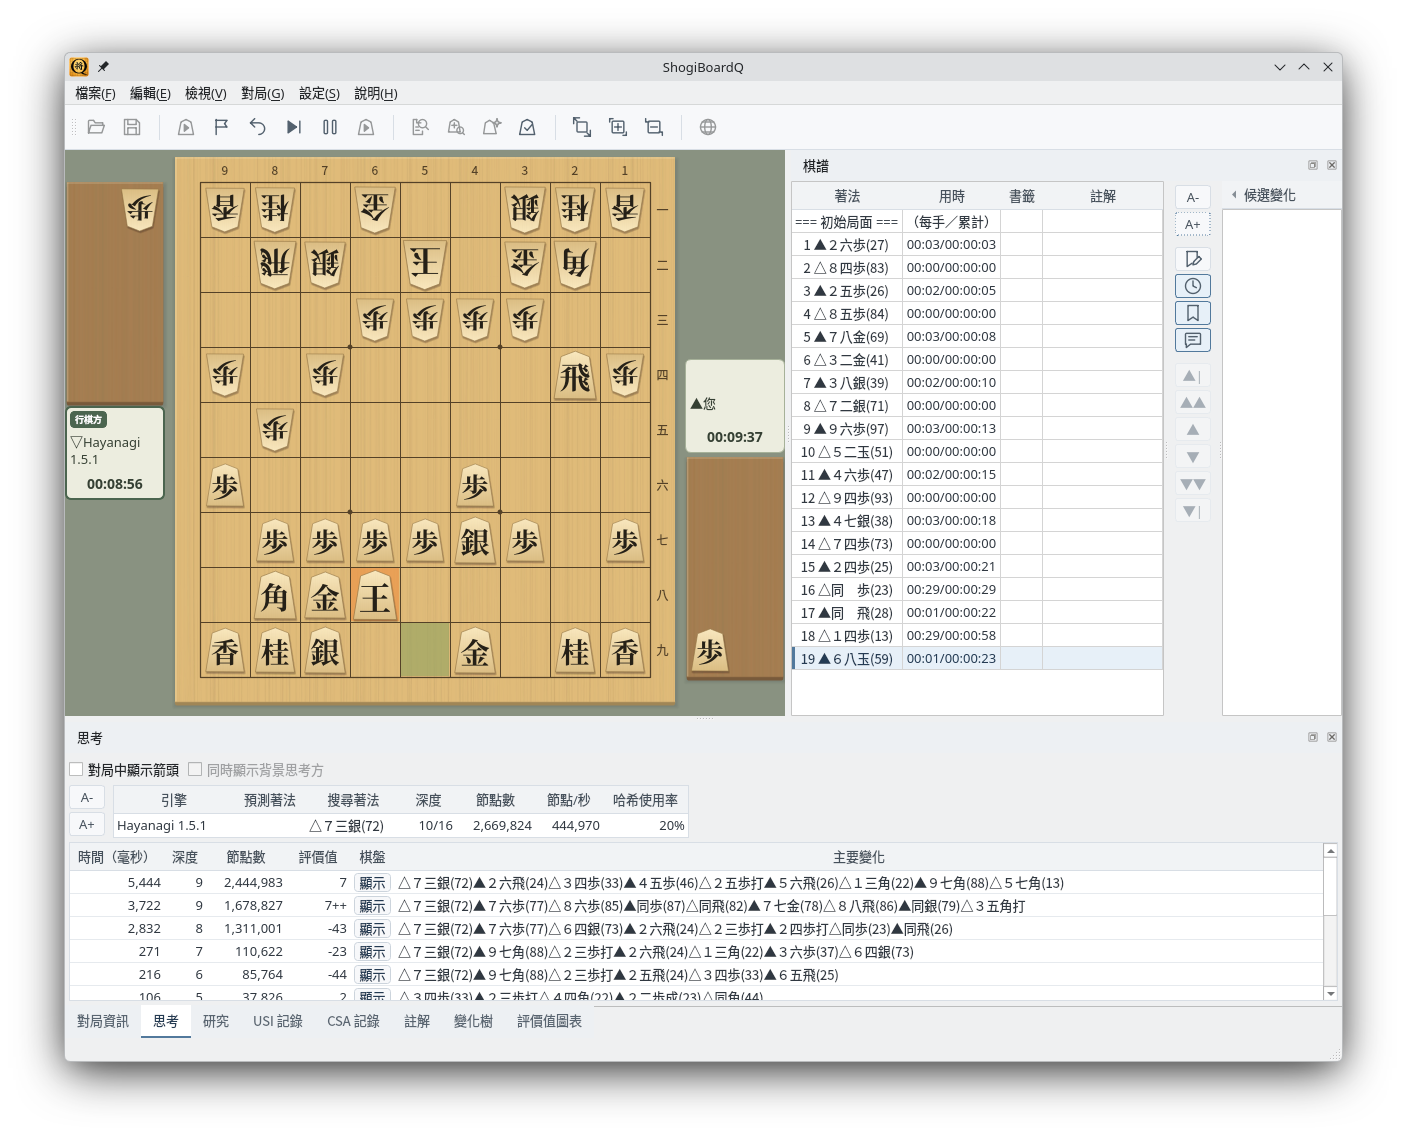
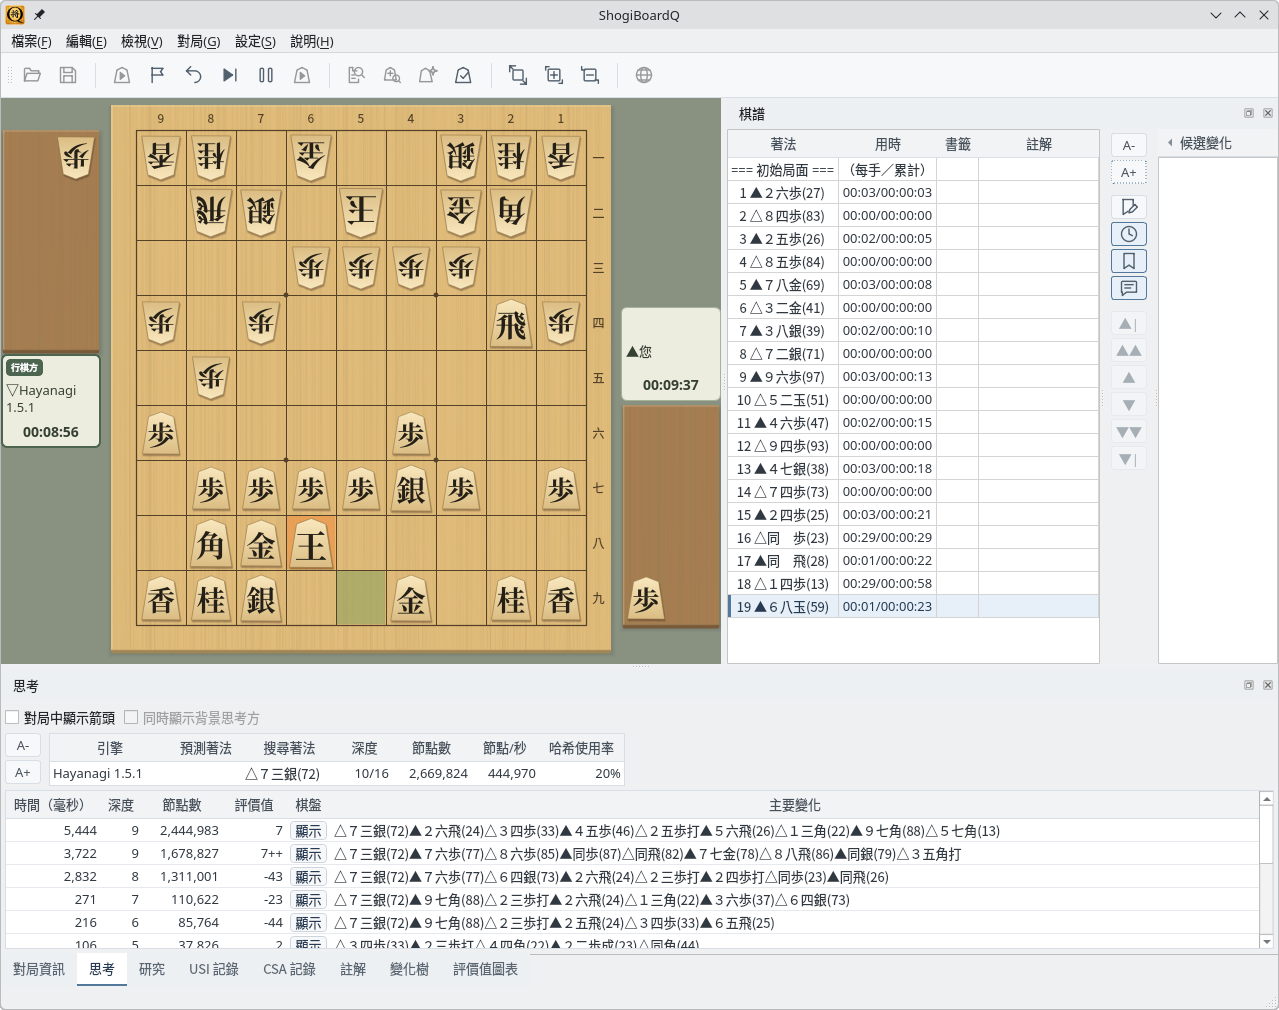
クロスプラットフォームのガイドの Linux の画像から影の余白を除く
KDE Plasma で撮った Linux 版の画像は、ウィンドウの周り（左右64px・上52px・
下76px）に KWin の半透明の影が入っていて、ページでは macOS・Windows の画像に
ない白い余白に見えていた。4言語とも不透明なウィンドウの範囲で切り抜き、
丸い角の外に残った影の点を透明にする。Breeze の 1px の輪郭は残す。
画像の大きさが変わったので、4言語のページの width・height も合わせる。

diff --git a/docs/guide/multi-os.html b/docs/guide/multi-os.html
@@ -84,7 +84,7 @@
                 </div>
                 <p class="guide-step-text">Linux上でShogiBoardQが動作している様子です。KDE PlasmaやGNOMEなど主要なデスクトップ環境で利用できます。画像はKDE Plasmaで、将棋エンジン<a href="hayanagi.html">Hayanagi</a>と対局しているところです。</p>
                 <div class="screenshot-item">
-                    <a href="../images/multi-os/linux-plasma.png"><img src="../images/multi-os/linux-plasma.png" alt="ShogiBoardQ Linux版の画面（KDE Plasmaで将棋エンジンHayanagiと対局中）" width="1419" height="1138" loading="lazy"></a>
+                    <a href="../images/multi-os/linux-plasma.png"><img src="../images/multi-os/linux-plasma.png" alt="ShogiBoardQ Linux版の画面（KDE Plasmaで将棋エンジンHayanagiと対局中）" width="1291" height="1010" loading="lazy"></a>
                     <p class="screenshot-caption">Linux版：KDE Plasma環境での対局画面（Hayanagiが思考中）</p>
                 </div>
             </div>

diff --git a/docs/zh-cn/guide/multi-os.html b/docs/zh-cn/guide/multi-os.html
@@ -86,7 +86,7 @@
                 </div>
                 <p class="guide-step-text">ShogiBoardQ 在 Linux 上运行的样子。可以在 KDE Plasma、GNOME 等主流桌面环境中使用。截图是在 KDE Plasma 上与将棋引擎 <a href="hayanagi.html">Hayanagi</a> 对局的画面。</p>
                 <div class="screenshot-item">
-                    <a href="../../images/zh-cn/multi-os/linux-plasma.png"><img src="../../images/zh-cn/multi-os/linux-plasma.png" alt="ShogiBoardQ 的 Linux 版画面（在 KDE Plasma 上与将棋引擎 Hayanagi 对局）" width="1407" height="1138" loading="lazy"></a>
+                    <a href="../../images/zh-cn/multi-os/linux-plasma.png"><img src="../../images/zh-cn/multi-os/linux-plasma.png" alt="ShogiBoardQ 的 Linux 版画面（在 KDE Plasma 上与将棋引擎 Hayanagi 对局）" width="1279" height="1010" loading="lazy"></a>
                     <p class="screenshot-caption">Linux 版：KDE Plasma 环境中的对局画面（Hayanagi 正在思考）</p>
                 </div>
             </div>

diff --git a/docs/zh-tw/guide/multi-os.html b/docs/zh-tw/guide/multi-os.html
@@ -86,7 +86,7 @@
                 </div>
                 <p class="guide-step-text">ShogiBoardQ 在 Linux 上執行的樣子。可以在 KDE Plasma、GNOME 等主流桌面環境中使用。截圖是在 KDE Plasma 上與將棋引擎 <a href="hayanagi.html">Hayanagi</a> 對局的畫面。</p>
                 <div class="screenshot-item">
-                    <a href="../../images/zh-tw/multi-os/linux-plasma.png"><img src="../../images/zh-tw/multi-os/linux-plasma.png" alt="ShogiBoardQ 的 Linux 版畫面（在 KDE Plasma 上與將棋引擎 Hayanagi 對局）" width="1407" height="1138" loading="lazy"></a>
+                    <a href="../../images/zh-tw/multi-os/linux-plasma.png"><img src="../../images/zh-tw/multi-os/linux-plasma.png" alt="ShogiBoardQ 的 Linux 版畫面（在 KDE Plasma 上與將棋引擎 Hayanagi 對局）" width="1279" height="1010" loading="lazy"></a>
                     <p class="screenshot-caption">Linux 版：KDE Plasma 環境中的對局畫面（Hayanagi 正在思考）</p>
                 </div>
             </div>

diff --git a/docs/en/guide/multi-os.html b/docs/en/guide/multi-os.html
@@ -84,7 +84,7 @@
                 </div>
                 <p class="guide-step-text">ShogiBoardQ running on Linux. It works on major desktop environments such as KDE Plasma and GNOME. The screenshot shows a game against the <a href="hayanagi.html">Hayanagi</a> engine on KDE Plasma.</p>
                 <div class="screenshot-item">
-                    <a href="../../images/en/multi-os/linux-plasma.png"><img src="../../images/en/multi-os/linux-plasma.png" alt="ShogiBoardQ on Linux: a game against the Hayanagi engine on KDE Plasma" width="1513" height="1138" loading="lazy"></a>
+                    <a href="../../images/en/multi-os/linux-plasma.png"><img src="../../images/en/multi-os/linux-plasma.png" alt="ShogiBoardQ on Linux: a game against the Hayanagi engine on KDE Plasma" width="1385" height="1010" loading="lazy"></a>
                     <p class="screenshot-caption">Linux: a game on KDE Plasma while Hayanagi is thinking (English interface)</p>
                 </div>
             </div>
